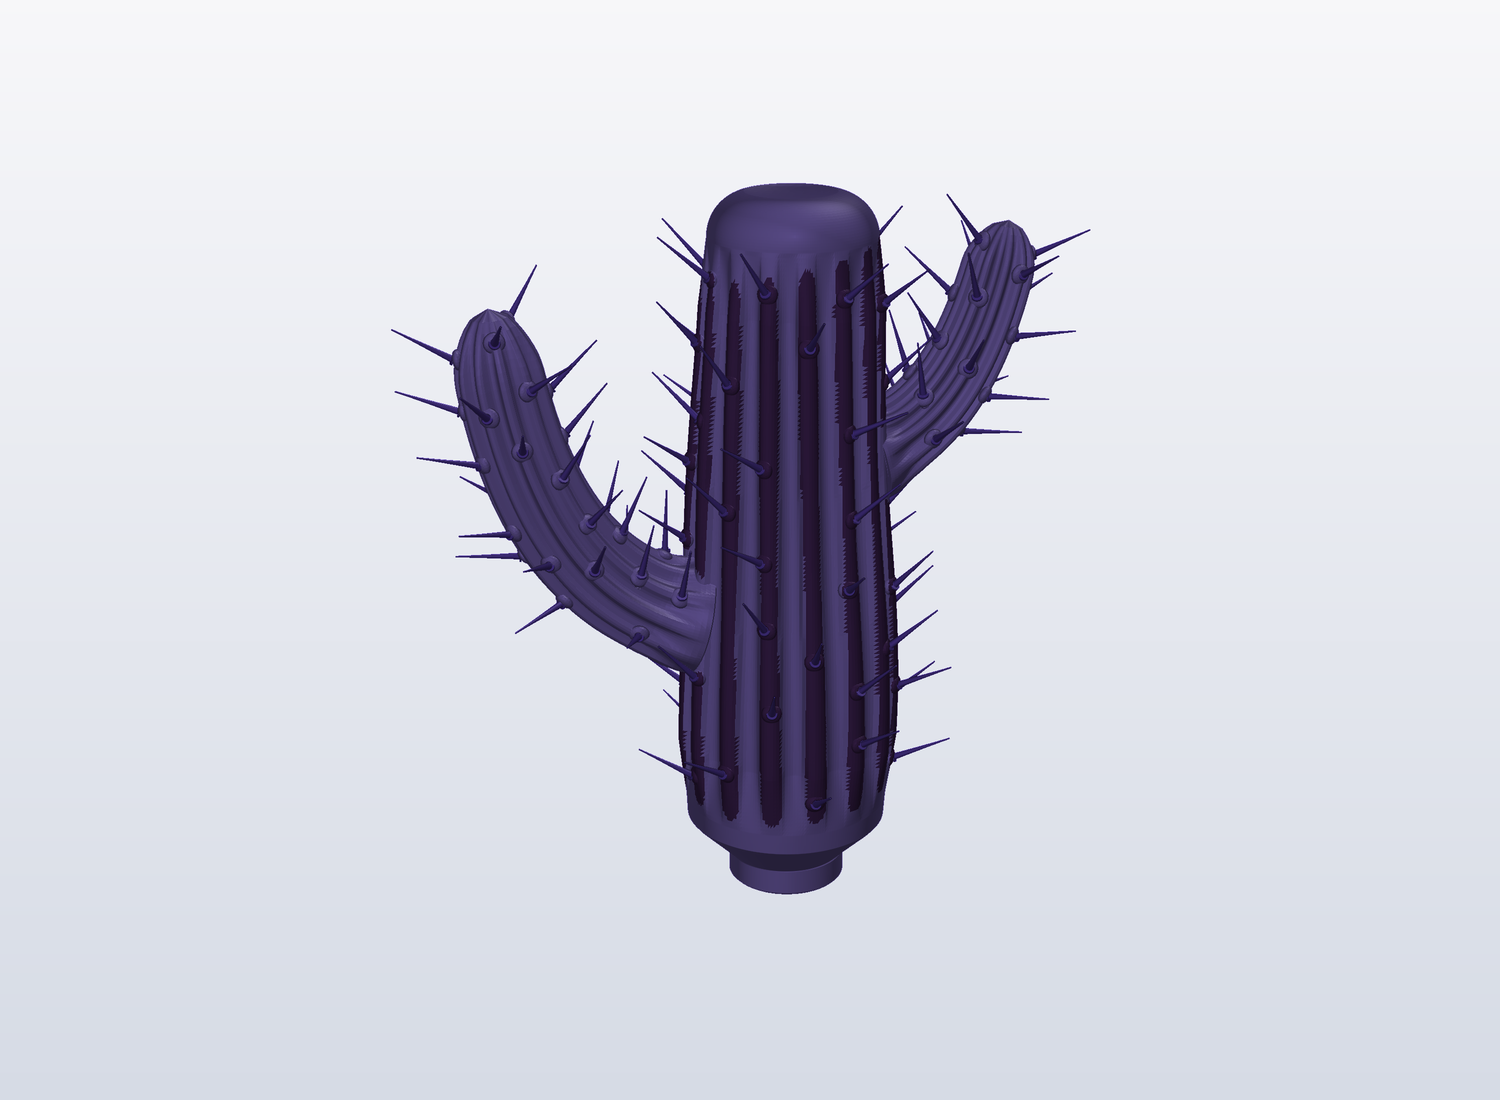
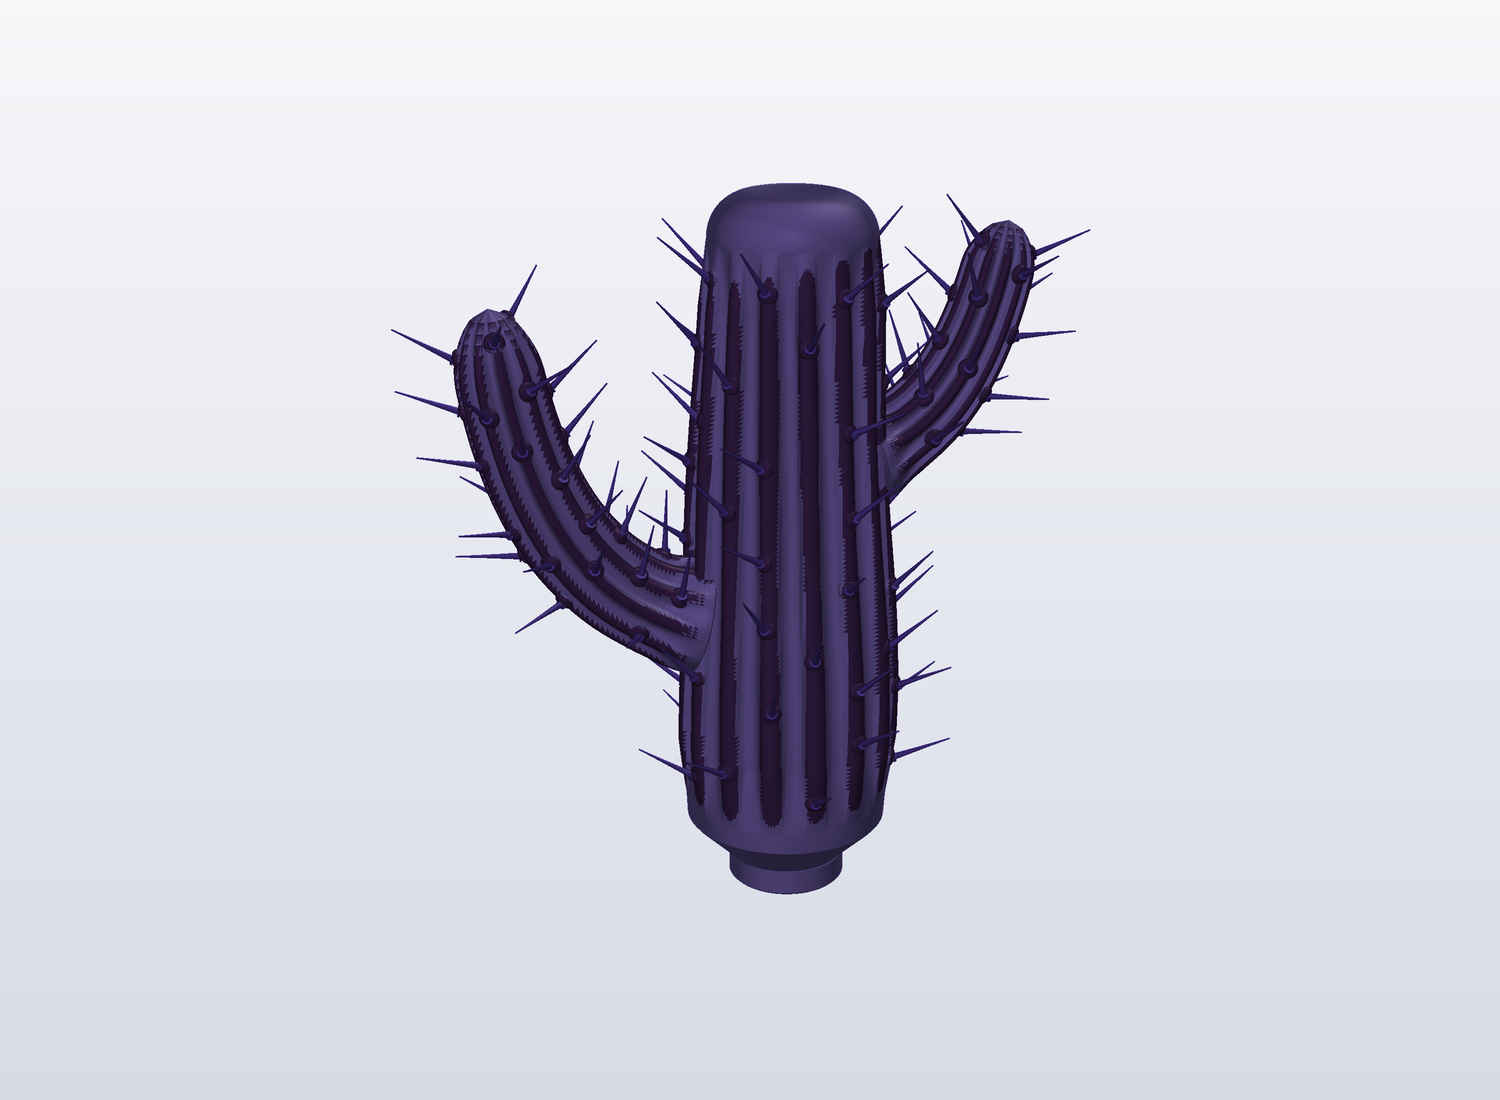
cactus-pot: carry the rib colouring onto the arms
Rob picked B2 and the arms were plainly left out of it -- the crest test
only worked on the trunk, so both arms printed plain dark while the trunk
was striped, which read as unfinished.

The trunk's test is easy: it is a column about z, so a point's radius can be
compared with the mean radius at that height. An arm is a swept tube that
bends and tapers and has no single axis to measure from, so arm_crest()
matches each point to the nearest station on the arm's spine and measures
perpendicular to the spine there, against the mean radius of that station's
ring. It fades out by itself at the root flare and the tip, where the ribs
are scaled away and nothing stands proud to be called a crest -- which is
what the arm actually looks like.

49% of arm faces come out as crest against 44% on the trunk, and the close
render shows the stripes following the arms' curve.

Two more views of the chosen scheme: colour-b2-side and colour-b2-arm.

Claude-Session: https://claude.ai/code/session_011Z9oi4rSN3qyTgCeM5HL1z

Changed region(s): [[0.3067, 0.2782, 0.4907, 0.6182], [0.5827, 0.1855, 0.7053, 0.4327]]

diff --git a/cactus-pot/colour_options.py b/cactus-pot/colour_options.py
@@ -81,6 +81,35 @@ def arm_distance(pts):
     return best
 
 
+def arm_crest(pts):
+    """Which points sit on an arm's rib crest rather than in its hollow.
+
+    The trunk's test is easy: it is a column about the z axis, so a point's
+    radius can be compared against the mean radius at that height. An arm is
+    a swept tube that bends and tapers, so there is no single axis to measure
+    from. Each point is matched to the nearest station on the arm's spine
+    instead, and its distance measured perpendicular to the spine there,
+    against the mean radius of the ring at that station.
+
+    This fades out on its own where it should. The ribs are scaled away into
+    the root flare and the rounded tip, so near either end a point sits at
+    the mean radius and nothing is called a crest -- which is what the arm
+    actually looks like.
+    """
+    out = np.zeros(len(pts), dtype=bool)
+    for spec in P.ARMS:
+        rings, line, tang = C.arm_rings(spec)
+        mean_r = np.linalg.norm(rings - line[:, None, :], axis=2).mean(1)
+        d = np.linalg.norm(pts[:, None, :] - line[None, :, :], axis=2)
+        i = d.argmin(1)
+        rel = pts - line[i]
+        along = np.einsum("ij,ij->i", rel, tang[i])
+        perp = np.linalg.norm(rel - tang[i] * along[:, None], axis=1)
+        near = d[np.arange(len(pts)), i] < 16.0
+        out |= near & (perp - mean_r[i] > 0.15 * P.ARM_RIB_DEPTH)
+    return out
+
+
 # ---------------------------------------------------------------------------
 
 def main():
@@ -120,22 +149,26 @@ def main():
     # layer rather than between layers, so it is the expensive one.
     mean = C.trunk_mean_radius(c[:, 2])
     on_arm = arm_distance(c) < 16.0
-    crest = (r - mean > 0.15 * P.RIB_DEPTH) & ~on_arm
+    crest = np.where(on_arm, arm_crest(c), r - mean > 0.15 * P.RIB_DEPTH)
     ridge, hollow = split(body, crest)
     shot("colour-b-ridges.png",
          [{"mesh": hollow, "color": norm(SILK)},
           {"mesh": ridge, "color": norm(INDIGO)},
           {"mesh": spikes, "color": norm(PURPLE)}])
-    # The same split the other way up. Botanically it is the weaker claim --
-    # the pigment really is in the ridges -- but a ridge is the part the
-    # light lands on, so putting the dark colour there cancels the shading
-    # that shows the ribs at all. Rendered both ways because that is not
-    # something a swatch tells you.
-    shot("colour-b2-ridges-lit.png",
-         [{"mesh": hollow, "color": norm(INDIGO)},
+    # The same split the other way up, and the one Rob picked. Botanically
+    # it is the weaker claim -- the pigment really is in the ridges -- but a
+    # ridge is the part the light lands on, so putting the dark colour there
+    # cancels the shading that shows the ribs at all. Rendered both ways
+    # because that is not something a swatch tells you.
+    b2 = [{"mesh": hollow, "color": norm(INDIGO)},
           {"mesh": ridge, "color": norm(SILK)},
-          {"mesh": spikes, "color": norm(PURPLE)}])
-    print(f"  B: {100 * ridge.area / body.area:.0f}% of the surface is ridge")
+          {"mesh": spikes, "color": norm(PURPLE)}]
+    shot("colour-b2-ridges-lit.png", b2)
+    shot("colour-b2-side.png", b2, az=118, el=4)
+    shot("colour-b2-arm.png", b2, az=150, el=14, margin=0.62)
+    print(f"  B: {100 * ridge.area / body.area:.0f}% of the surface is ridge, "
+          f"{100 * (crest & on_arm).sum() / max(1, on_arm.sum()):.0f}% of the "
+          f"arm faces are crest")
 
     # -- C. the arms are younger ------------------------------------------
     # An arm is years younger than the trunk it grew out of and does not
